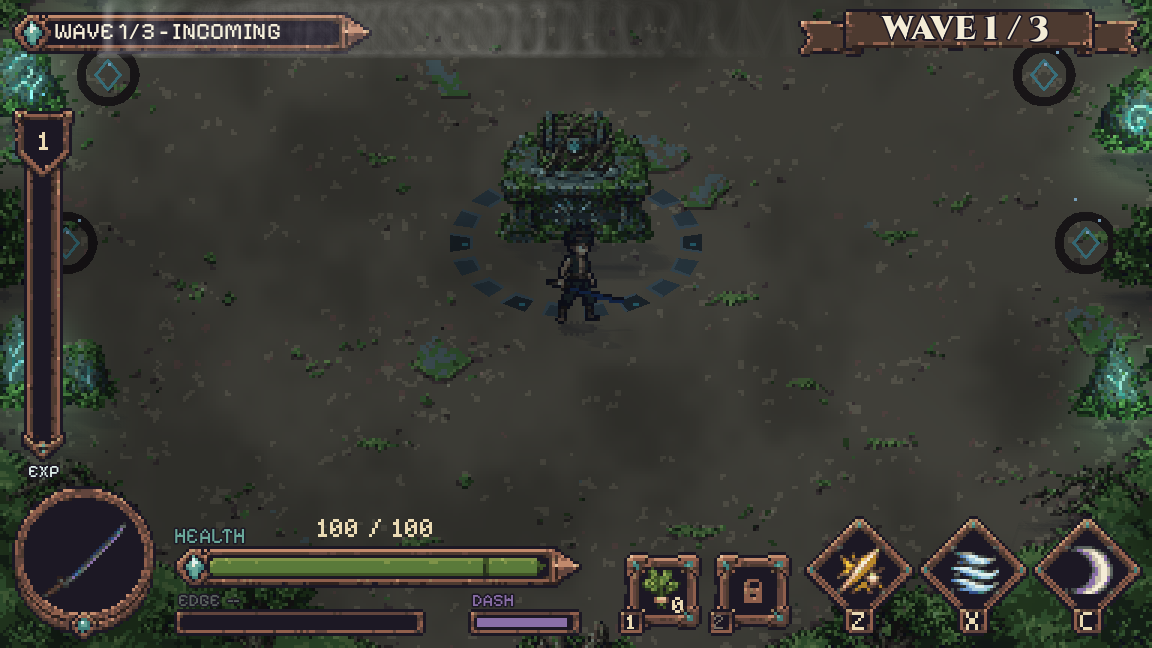
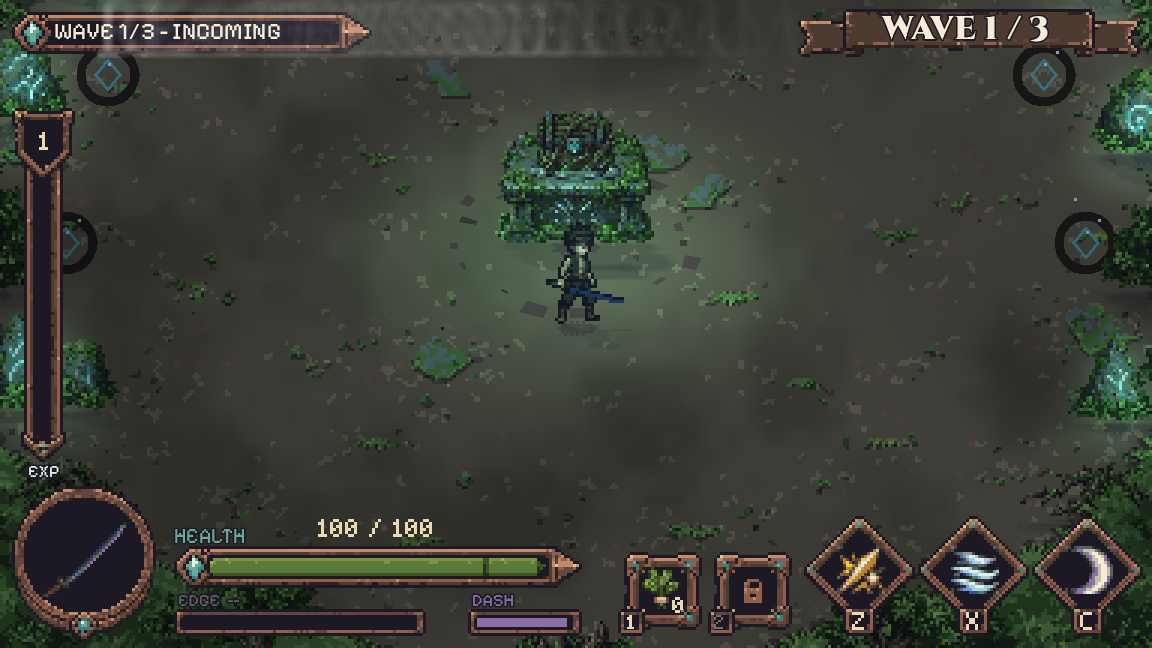
Hollow Trial review fixes (done by Claude while Codex is out): altar-relative ring and cues, quieter flagstone course, altar light pool for contrast, armed hint, trial-only arrival pulses

Changed region(s): [[0.3438, 0.216, 0.6562, 0.5556]]

diff --git a/docs/CROSS_REVIEW_hollow_trial.md b/docs/CROSS_REVIEW_hollow_trial.md
@@ -34,3 +34,14 @@ Reviewed: `3ef88a54` (editable visual scene, props, registration handoff) and `9
 ## Cannot judge
 
 The look and feel, whether crowded waves stay readable at full speed, the reused sounds, and whether the trial is hard but fair: these are the owner's call after a real playthrough. The gameplay check restores HP and uses lethal hits to speed up clears, so it proves the wiring, not the balance.
+
+## Fixes made (Claude, 2026-10-31, while Codex is out)
+
+1. **Altar position:** the flagstone course, the trial pulses and the three progress marks now follow the `trial_altar` placement's feet (`TrialArt.altar_at`), so moving the altar in the Godot scene moves them too.
+2. **The ring:** redrawn as a broken, irregular course of worn flagstones in ground colours (dirt browns, missing stones, no rune dots, no blue), so only real warnings look like a ring around the player.
+3. **Contrast:** the dark altar now casts a wide, soft rune-light pool over the fight floor (`local_lights.json` `hollow_trial_altar_dark`: pool radius 150, energy 1.0; the lit altar's pool widened to 120). Measured on the real capture: the floor around the altar is about 13 % brighter, so mobs near the centre stand out. **Limit:** a mob at the far edge of the floor (the Boar in the wave-2 capture) is outside the pool and still dark; if that is still too hard to read in play, the next step is a faint rim light on mobs in this scene.
+4. **Finding 4 was wrong about its cause:** the blocky shape near the top edge is **not** a trial shadow. It is the **Runebound Warden, drawn at 2.5x** (`warden_effects.gd` scales its rectangle by 2.5), standing at the top edge of the floor. Turning the trial's local shadows off did not change it. A non-integer scale gives uneven, chunky pixels next to the 1x art and goes against the project's "integer scaling only" rule. **Not fixed here** (it is the Warden's art, approved at that size): the clean fix is to redraw the Warden's frames at the larger size natively (or use a whole-number scale such as 2x or 3x). Owner's call.
+
+Notes 1-3 done too: the "begin trial" hint needs an armed hero; the anchor/size override is removed (all 22 catalogue anchors match the atlas); arrival pulses only follow `mob_alerted` of the trial encounter. Note 4 (the number behind the level badge) is left for the HUD pass.
+
+Checks after the fixes: Codex's `check_scene.gd` and `check_gameplay.gd` pass headless; real-renderer captures redone (spawn warning, wave 2, win, chest).

diff --git a/docs/STATUS.md b/docs/STATUS.md
@@ -1,3 +1,7 @@
+## Hollow Trial review fixes (2026-10-31, Claude, done while Codex is out)
+
+Fixed the cross-review findings in Codex's Hollow Trial presentation: altar ring, pulses and progress marks follow the altar's placement; the ring is now a broken course of worn flagstones in ground colours (no longer looks like an indicator); a wide rune-light pool from the altar lifts the fight floor (about 13 percent brighter at the centre; far-edge mobs still dark); hint needs an armed hero; anchor override removed; arrival pulses only for trial mobs. The blocky shape near the top edge is the Warden drawn at a non-integer 2.5x scale, not a trial bug: left for the owner. Core 568, Python, all headless smokes and Codex's two trial checks pass; captures redone. docs/CROSS_REVIEW_hollow_trial.md.
+
 ## Hollow Trial props registered (2026-10-31, Claude)
 
 Codex's 22 props are in data/props/prop_defs_hollow_trial.json and placed in the room (chest on top of the altar, not solid; the altar holds the body). Walkable outline traced from Codex's floor painting. Tests: altar, spawn points and way out reachable, fight floor open apart from the altar, entry roots seal and open (test_hollow_trial.gd, 14). Core 568 pass, Python pass. smoke_profile and smoke_variant_atlases fail on Codex's uncommitted atlas rebuild (art/build), not on this change. Codex: re-canvas the chest to sit on the altar, merge the light sockets, the owner's review list (docs/CODEX_TASK_hollow_trial.md).
